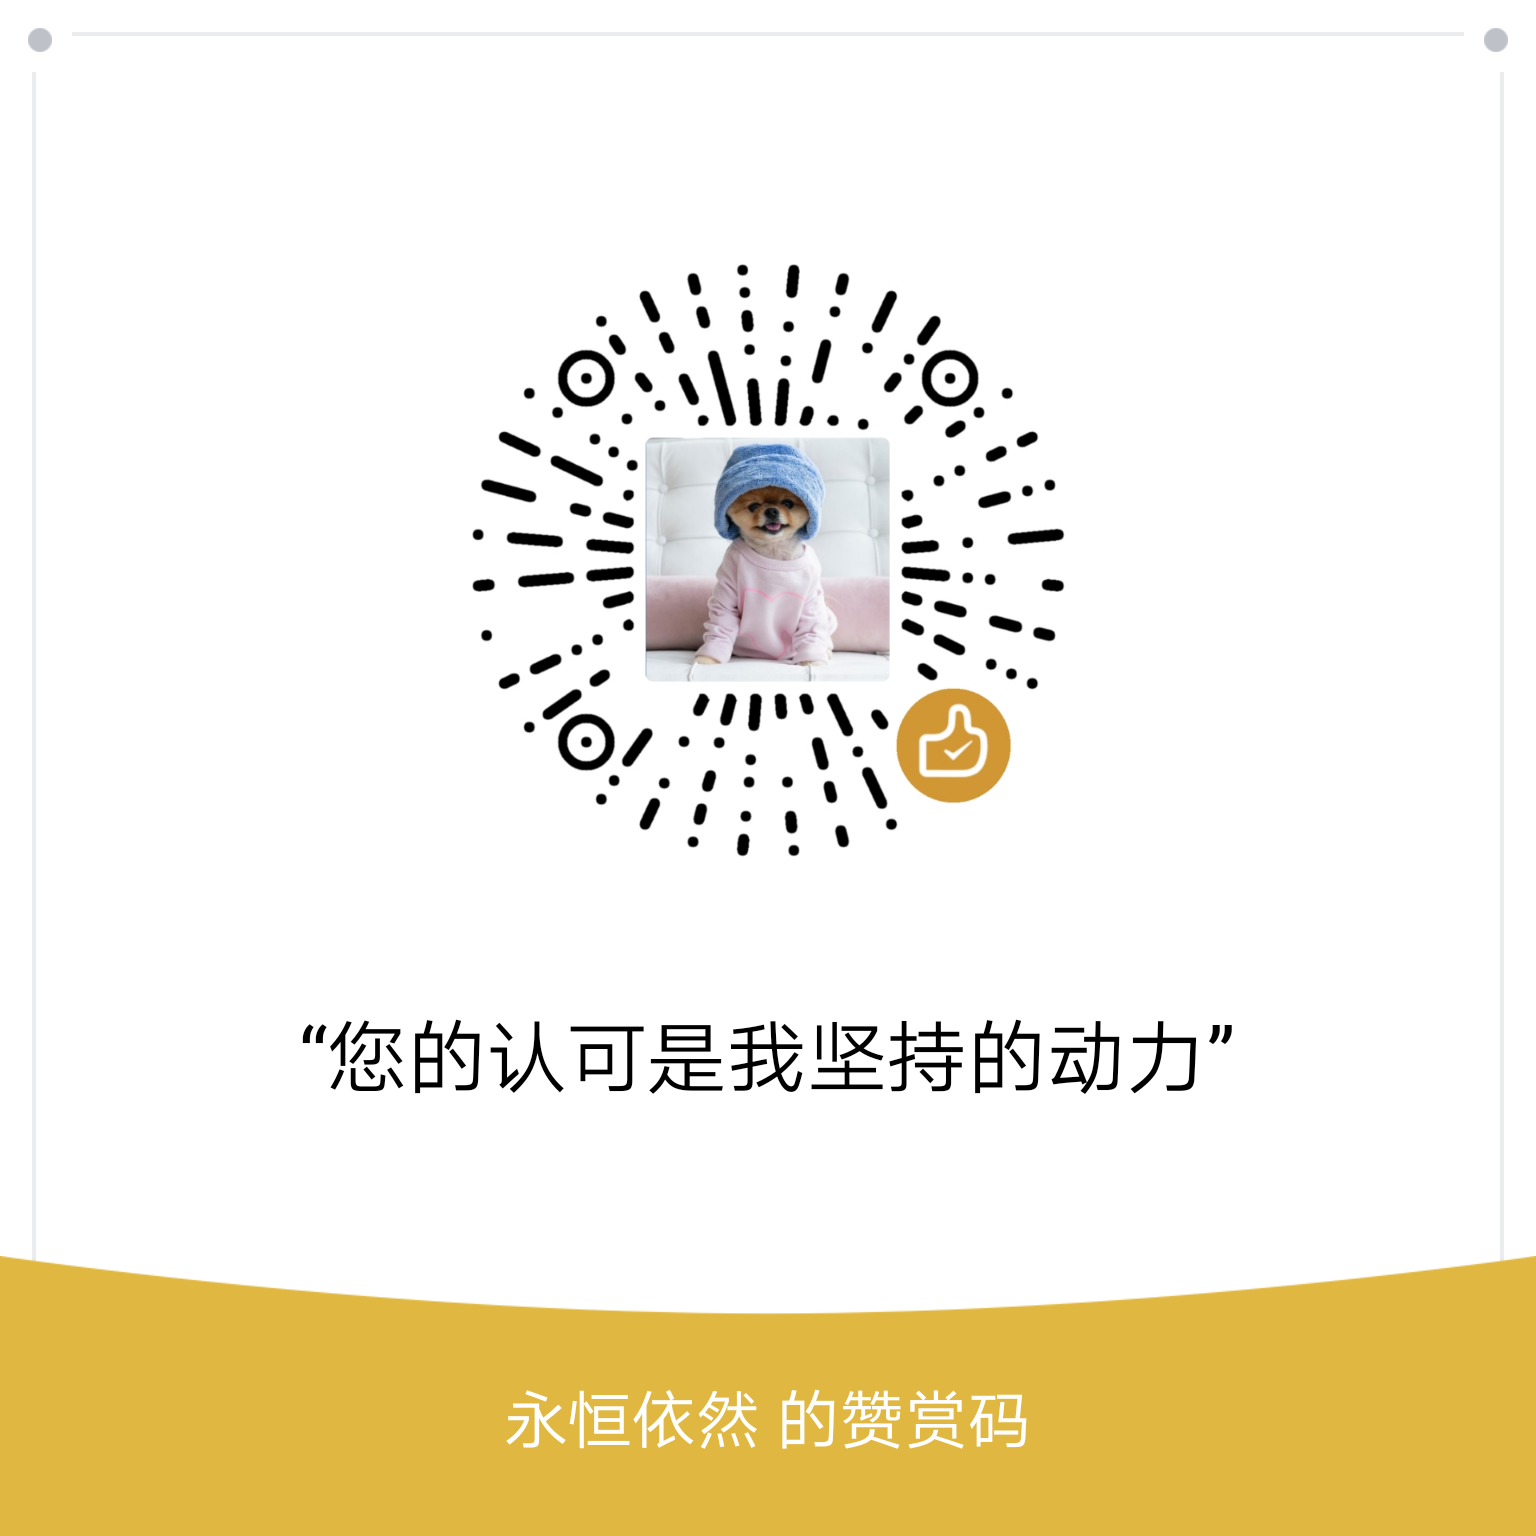
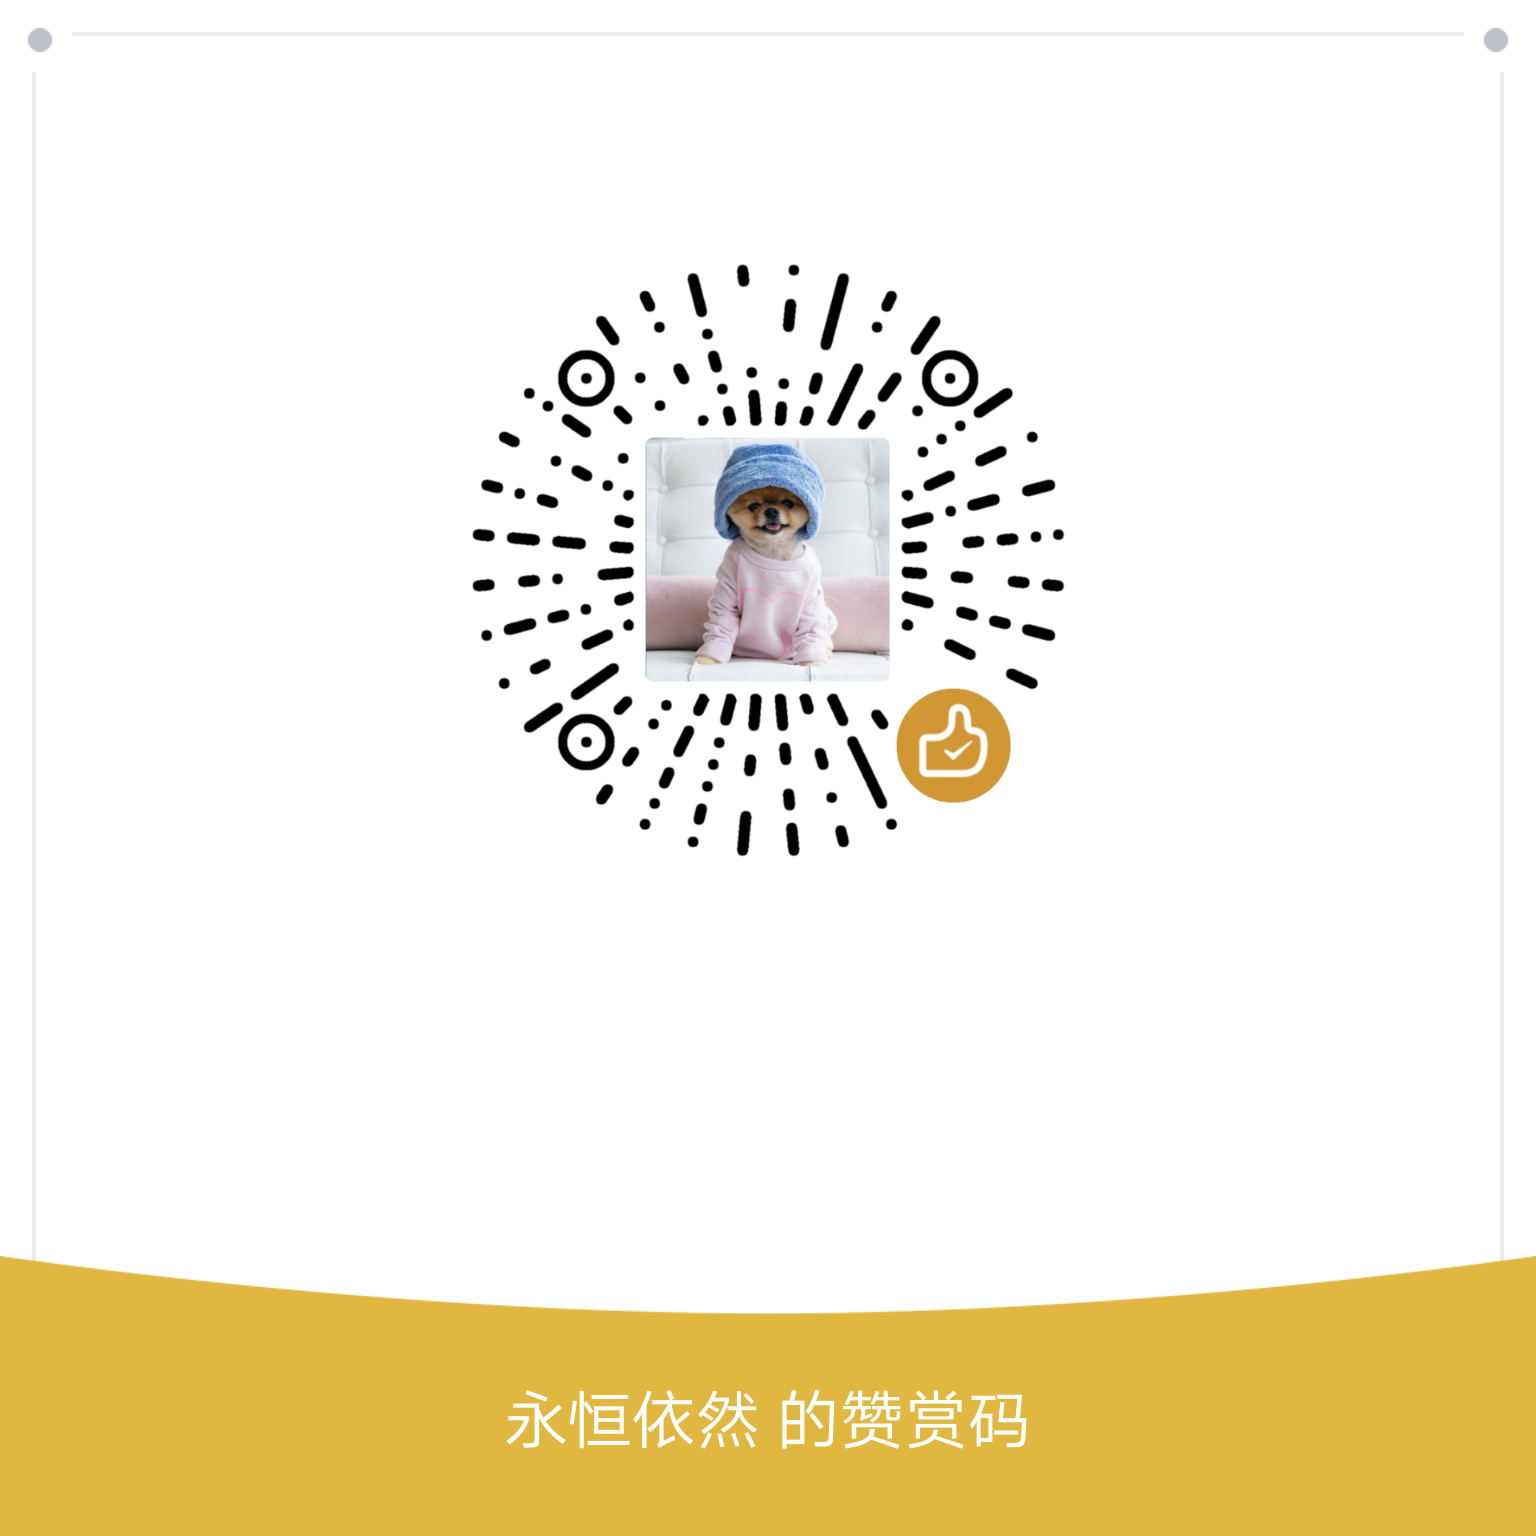
Site updated: 2019-01-06 13:20:19

diff --git a/index.html b/index.html
@@ -86,7 +86,7 @@
 			<i class="iconfont icon-Github"></i>
 		</a>	
 	          		
-		<a target="_blank" class="social-links" href="https://www.facebook.com/yhyr.ycy">		
+		<a target="_blank" class="social-links" href="">		
 			<i class="iconfont icon-Facebook"></i>
 		</a>	
 	          		
@@ -102,8 +102,12 @@
 			<i class="iconfont icon-LinkedIn"></i>
 		</a>	
 	          		
-		<a target="_blank" class="social-links" href="https://weibo.com/u/2323516122">		
+		<a target="_blank" class="social-links" href="">		
 			<i class="iconfont icon-Weibo"></i>
+		</a>	
+	          		
+		<a target="_blank" class="social-links" href="">		
+			<i class="iconfont icon-Zhihu"></i>
 		</a>	
 	    
     	</div>		

diff --git a/page/2/index.html b/page/2/index.html
@@ -86,7 +86,7 @@
 			<i class="iconfont icon-Github"></i>
 		</a>	
 	          		
-		<a target="_blank" class="social-links" href="https://www.facebook.com/yhyr.ycy">		
+		<a target="_blank" class="social-links" href="">		
 			<i class="iconfont icon-Facebook"></i>
 		</a>	
 	          		
@@ -102,8 +102,12 @@
 			<i class="iconfont icon-LinkedIn"></i>
 		</a>	
 	          		
-		<a target="_blank" class="social-links" href="https://weibo.com/u/2323516122">		
+		<a target="_blank" class="social-links" href="">		
 			<i class="iconfont icon-Weibo"></i>
+		</a>	
+	          		
+		<a target="_blank" class="social-links" href="">		
+			<i class="iconfont icon-Zhihu"></i>
 		</a>	
 	    
     	</div>		

diff --git a/2018/05/28/基于GitHub-Pages-Hexo-多端搭建本地博客环境/index.html b/2018/05/28/基于GitHub-Pages-Hexo-多端搭建本地博客环境/index.html
@@ -161,7 +161,7 @@
 		<img id="donate-qr-alipay" class="noLazyLoad donate-img lazyload" src="/images/placeholder.png" alt="No Donate Image!" data-src="/images/donate_wechat.png">	
 	</div>
 
-	<span class="donate-word">您的认可是我坚持下去的理由</span>
+	<span class="donate-word"></span>
 
 	<div class="donate-list">
 		<span class="iconfont icon-donate-wechat"></span>

diff --git a/2018/06/01/Python-Mysql依赖初探/index.html b/2018/06/01/Python-Mysql依赖初探/index.html
@@ -169,7 +169,7 @@
 		<img id="donate-qr-alipay" class="noLazyLoad donate-img lazyload" src="/images/placeholder.png" alt="No Donate Image!" data-src="/images/donate_wechat.png">	
 	</div>
 
-	<span class="donate-word">您的认可是我坚持下去的理由</span>
+	<span class="donate-word"></span>
 
 	<div class="donate-list">
 		<span class="iconfont icon-donate-wechat"></span>

diff --git a/2018/06/01/基于pandas的数据分析之数据类型转化踩坑总结/index.html b/2018/06/01/基于pandas的数据分析之数据类型转化踩坑总结/index.html
@@ -212,7 +212,7 @@
 		<img id="donate-qr-alipay" class="noLazyLoad donate-img lazyload" src="/images/placeholder.png" alt="No Donate Image!" data-src="/images/donate_wechat.png">	
 	</div>
 
-	<span class="donate-word">您的认可是我坚持下去的理由</span>
+	<span class="donate-word"></span>
 
 	<div class="donate-list">
 		<span class="iconfont icon-donate-wechat"></span>

diff --git a/2018/06/06/基于Python初探Linux下的僵尸进程和孤儿进程-二/index.html b/2018/06/06/基于Python初探Linux下的僵尸进程和孤儿进程-二/index.html
@@ -182,7 +182,7 @@
 		<img id="donate-qr-alipay" class="noLazyLoad donate-img lazyload" src="/images/placeholder.png" alt="No Donate Image!" data-src="/images/donate_wechat.png">	
 	</div>
 
-	<span class="donate-word">您的认可是我坚持下去的理由</span>
+	<span class="donate-word"></span>
 
 	<div class="donate-list">
 		<span class="iconfont icon-donate-wechat"></span>

diff --git a/2018/06/07/基于Python初探Linux下的僵尸进程和孤儿进程-一/index.html b/2018/06/07/基于Python初探Linux下的僵尸进程和孤儿进程-一/index.html
@@ -187,7 +187,7 @@
 		<img id="donate-qr-alipay" class="noLazyLoad donate-img lazyload" src="/images/placeholder.png" alt="No Donate Image!" data-src="/images/donate_wechat.png">	
 	</div>
 
-	<span class="donate-word">您的认可是我坚持下去的理由</span>
+	<span class="donate-word"></span>
 
 	<div class="donate-list">
 		<span class="iconfont icon-donate-wechat"></span>

diff --git a/2018/06/07/基于Python初探Linux下的僵尸进程和孤儿进程-三/index.html b/2018/06/07/基于Python初探Linux下的僵尸进程和孤儿进程-三/index.html
@@ -186,7 +186,7 @@
 		<img id="donate-qr-alipay" class="noLazyLoad donate-img lazyload" src="/images/placeholder.png" alt="No Donate Image!" data-src="/images/donate_wechat.png">	
 	</div>
 
-	<span class="donate-word">您的认可是我坚持下去的理由</span>
+	<span class="donate-word"></span>
 
 	<div class="donate-list">
 		<span class="iconfont icon-donate-wechat"></span>

diff --git a/2018/07/03/基于centOS-7搭建FTP服务器/index.html b/2018/07/03/基于centOS-7搭建FTP服务器/index.html
@@ -275,7 +275,7 @@
 		<img id="donate-qr-alipay" class="noLazyLoad donate-img lazyload" src="/images/placeholder.png" alt="No Donate Image!" data-src="/images/donate_wechat.png">	
 	</div>
 
-	<span class="donate-word">您的认可是我坚持下去的理由</span>
+	<span class="donate-word"></span>
 
 	<div class="donate-list">
 		<span class="iconfont icon-donate-wechat"></span>

diff --git a/2018/09/16/Pandas-read-json-踩坑总结-源码初探/index.html b/2018/09/16/Pandas-read-json-踩坑总结-源码初探/index.html
@@ -185,7 +185,7 @@
 		<img id="donate-qr-alipay" class="noLazyLoad donate-img lazyload" src="/images/placeholder.png" alt="No Donate Image!" data-src="/images/donate_wechat.png">	
 	</div>
 
-	<span class="donate-word">您的认可是我坚持下去的理由</span>
+	<span class="donate-word"></span>
 
 	<div class="donate-list">
 		<span class="iconfont icon-donate-wechat"></span>

diff --git a/2018/12/15/Kafka理论之Partition-Replication/index.html b/2018/12/15/Kafka理论之Partition-Replication/index.html
@@ -227,7 +227,7 @@
 		<img id="donate-qr-alipay" class="noLazyLoad donate-img lazyload" src="/images/placeholder.png" alt="No Donate Image!" data-src="/images/donate_wechat.png">	
 	</div>
 
-	<span class="donate-word">您的认可是我坚持下去的理由</span>
+	<span class="donate-word"></span>
 
 	<div class="donate-list">
 		<span class="iconfont icon-donate-wechat"></span>

diff --git a/2018/12/20/用Python优雅的做数据处理/index.html b/2018/12/20/用Python优雅的做数据处理/index.html
@@ -247,7 +247,7 @@
 		<img id="donate-qr-alipay" class="noLazyLoad donate-img lazyload" src="/images/placeholder.png" alt="No Donate Image!" data-src="/images/donate_wechat.png">	
 	</div>
 
-	<span class="donate-word">您的认可是我坚持下去的理由</span>
+	<span class="donate-word"></span>
 
 	<div class="donate-list">
 		<span class="iconfont icon-donate-wechat"></span>
